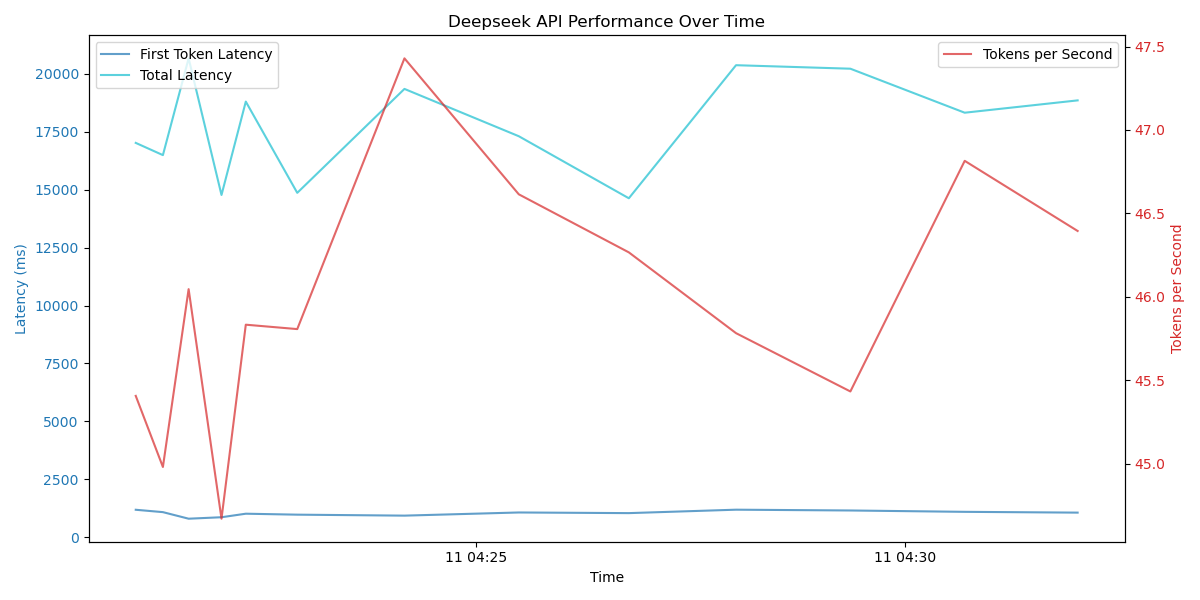
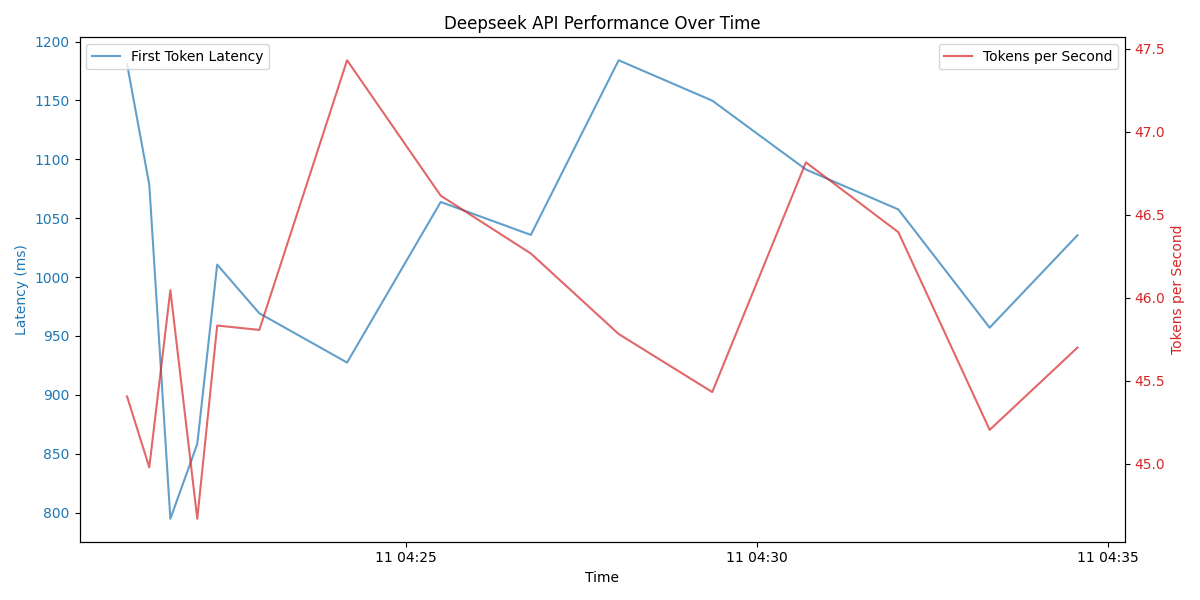
Update files

diff --git a/deepseek_performance_monitor.py b/deepseek_performance_monitor.py
@@ -15,7 +15,6 @@ def measure_request():
         model="deepseek/deepseek-chat",
         messages=[{"role": "user", "content": "Tell me about ancient Rome"}],
         stream=True,
-        max_tokens=1000
     )
     
     for chunk in response:
@@ -34,7 +33,7 @@ def measure_request():
     return time_to_first_token, total_time, tokens_per_second, total_tokens
 
 def main():
-    end_time = datetime.now() + timedelta(hours=24)
+    end_time = datetime.now() + timedelta(hours=72)
     # Check if file exists to determine if we need to write header
     write_header = not os.path.exists('deepseek_performance.csv')
     
@@ -65,8 +64,8 @@ def main():
             except Exception as e:
                 print(f"Error: {e}")
             
-            # time.sleep(60)
-            time.sleep(2)
+            time.sleep(60)
+            # time.sleep(2)
 
 if __name__ == "__main__":
     main()
